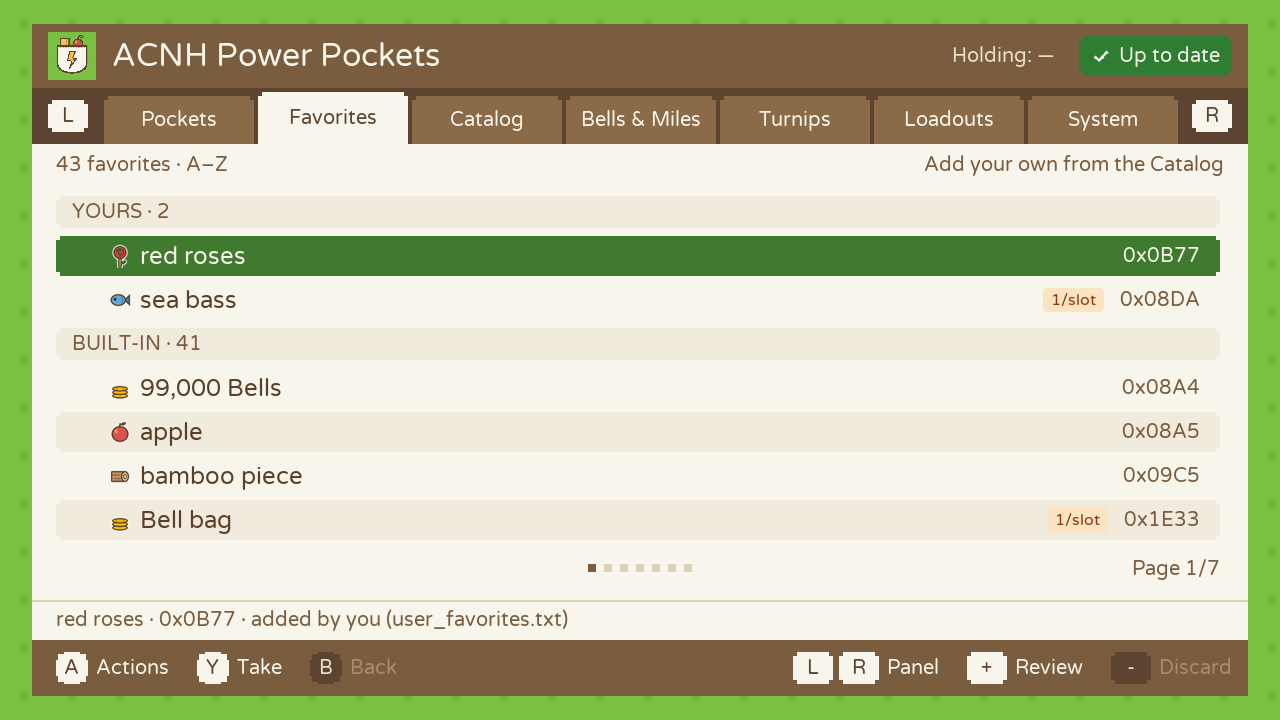
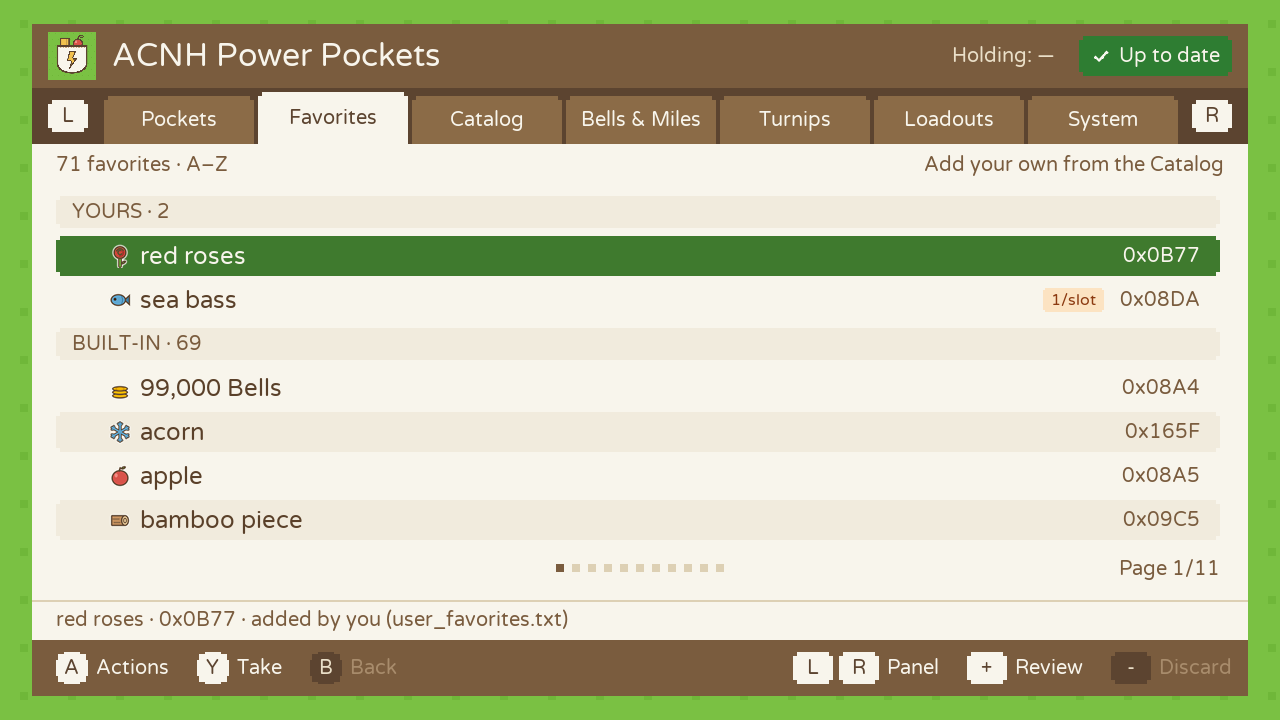
Built-in favorites: useful items, seasonal materials, rare finds
28 more built-in favorites (69 in all):
- useful items and tools: fish bait, medicine, pitfall seed, white
  wrapping paper, sapling, ladder, vaulting pole, fossil;
- seasonal materials: young spring bamboo, pine cone, acorn, maple leaf,
  summer shell, snowflake, large snowflake, red ornament, heart crystal;
- rare and fun: golden toilet, golden seat, golden casket, robot hero,
  Nintendo Switch, wobbling Zipper toy, coelacanth, stringfish, golden
  trout, barreleye, golden stag.
Each name is unique in items.txt (glowing moss and vine were left out:
their names exist twice and the by-name lookup would pick the wrong one).
The favorites limit goes from 80 to 100.

diff --git a/tests/host/engine/engine_bench.cpp b/tests/host/engine/engine_bench.cpp
@@ -751,6 +751,15 @@ static void scnRealSave(const Save&) {
     const int hp = validHashes(s.pPlain, P_REGS, 2), hm = validHashes(s.mPlain, M_REGS, 19);
     printf("    as dumped: personal %d/2 hashes valid, main %d/19\n", hp, hm);
     const bool stale = hp != 2 || hm != 19;
+    {                                                                        // pocket upgrades, as the app sees them
+        const uint32_t bc = rd32(&s.pPlain[BAG_COUNT]);
+        const int slots = pp::slotsFromBagCount(bc);
+        pp::Pockets pk(&s.pPlain[POCKETS], &s.pPlain[BAG], slots);
+        printf("    pockets: bag counter %u -> %d slots, %d used; pocket block counter %u\n", (unsigned)bc, pk.count, pp::countItems(pk),
+               (unsigned)rd32(&s.pPlain[POCKETS + 160]));
+        for (int i = 21; i <= pk.count; i++) { pp::SlotRec r = pp::readSlot(pk, i); if (r.id != pp::ID_EMPTY) printf("      slot %d: 0x%04X raw %u\n", i, r.id, r.raw); }
+        CHECK(pp::pocketsPlausible(&s.pPlain[BAG], 20));
+    }
     pp::TurnipWeek tw;
     if (pp::readTurnipWeek(s.mPlain.data(), s.mPlain.size(), tw)) {          // compare with the game / Turnips
         printf("    turnips: Daisy Mae %u, pattern %u, saved %04d-%02d-%02d %02d:%02d%s\n      ", (unsigned)tw.buy, (unsigned)tw.pattern,

diff --git a/tests/host/ui_gallery.cpp b/tests/host/ui_gallery.cpp
@@ -48,7 +48,12 @@ static const char* FAV_NAMES[] = {
     "golden watering can", "crown (No Variations)", "royal crown (No Variations)",
     "apple", "cherry", "orange", "peach", "pear", "coconut",
     "potato", "carrot", "wheat", "sugarcane", "tomato", "orange pumpkin",
-    "wood", "softwood", "hardwood", "stone", "clay", "tree branch", "bamboo piece" };
+    "wood", "softwood", "hardwood", "stone", "clay", "tree branch", "bamboo piece",
+    "fish bait", "medicine", "pitfall seed", "white wrapping paper", "sapling", "ladder", "vaulting pole", "fossil",
+    "young spring bamboo", "pine cone", "acorn", "maple leaf", "summer shell", "snowflake", "large snowflake",
+    "red ornament", "heart crystal",
+    "golden toilet", "golden seat", "golden casket", "robot hero", "Nintendo Switch", "wobbling Zipper toy",
+    "coelacanth", "stringfish", "golden trout", "barreleye", "golden stag" };
 static const char* LOADOUT_NAMES[] = { "Mining", "Fishing", "Terraforming", "Custom 1", "Custom 2" };
 
 int main(int argc, char** argv) {

diff --git a/source/main.cpp b/source/main.cpp
@@ -191,7 +191,38 @@ static const char* FAV_NAMES[] = {
     "stone",
     "clay",
     "tree branch",
-    "bamboo piece"
+    "bamboo piece",
+    // Useful items and tools
+    "fish bait",
+    "medicine",
+    "pitfall seed",
+    "white wrapping paper",
+    "sapling",
+    "ladder",
+    "vaulting pole",
+    "fossil",
+    // Seasonal materials
+    "young spring bamboo",
+    "pine cone",
+    "acorn",
+    "maple leaf",
+    "summer shell",
+    "snowflake",
+    "large snowflake",
+    "red ornament",
+    "heart crystal",
+    // Rare and fun
+    "golden toilet",
+    "golden seat",
+    "golden casket",
+    "robot hero",
+    "Nintendo Switch",
+    "wobbling Zipper toy",
+    "coelacanth",
+    "stringfish",
+    "golden trout",
+    "barreleye",
+    "golden stag"
 };
 static const int FAV_MAX = (int)(sizeof(FAV_NAMES) / sizeof(FAV_NAMES[0]));
 

diff --git a/source/pp_strings.h b/source/pp_strings.h
@@ -92,7 +92,7 @@ static const char* const FAVS_EMPTY_HINT  = "Add some from the Catalog: A > Add 
 static const char* const FAVS_RO_HINT     = "items.txt is missing, favorites can't be resolved.";
 static const char* const T_FAV_ADDED      = "Added to favorites";
 static const char* const T_FAV_REMOVED    = "Removed from favorites";
-static const char* const T_FAV_FULL       = "Favorites are full (80). Remove one first.";
+static const char* const T_FAV_FULL       = "Favorites are full (100). Remove one first.";
 static const char* const T_FAV_IO         = "Couldn't save favorites to the SD card. Nothing changed.";
 static const char* const T_FAV_RO         = "Favorites are read-only without items.txt";
 static const char* const T_FAV_RESET      = "Default favorites restored (your list was kept as .bak)";

diff --git a/source/pp_model.h b/source/pp_model.h
@@ -36,7 +36,7 @@ static const uint16_t ID_EMPTY       = 0xFFFE;
 static const uint16_t ID_MAX_VALID   = 0xFFFC;                  // 0xFFFD is EXTENSION
 static const int      QTY_MIN        = 1;                       // upstream bounds, unchanged
 static const int      QTY_MAX        = 99;
-static const int      FAV_LIMIT      = 80;
+static const int      FAV_LIMIT      = 100;
 static const uint32_t WALLET_GAME_MAX = 99999;                  // warning only, bound unchanged
 
 // Quantity convention of the +4 field.

diff --git a/README.md b/README.md
@@ -50,7 +50,7 @@ With the pocket upgrades from Nook's Cranny, the grid shows your 30 or 40 slots.
 | | |
 |---|---|
 | ![Favorites panel with the YOURS and BUILT-IN groups](docs/screenshots/favorites.png) | ![Action menu of a pocket slot](docs/screenshots/slot-menu.png) |
-| **Favorites.** Yours first, then the 41 built-in ones (fruits, vegetables and common materials among them). Add or remove them from the app; they are saved on the SD card. | **One menu per slot.** Fill empty slots, change a quantity, pick the item up, favorite it, revert it, clear it. |
+| **Favorites.** Yours first, then the 69 built-in ones: useful items and tools, fruits, vegetables, common and seasonal materials, and a few rare finds. Add or remove them from the app; they are saved on the SD card. | **One menu per slot.** Fill empty slots, change a quantity, pick the item up, favorite it, revert it, clear it. |
 
 ### A picture and a color for every item
 
